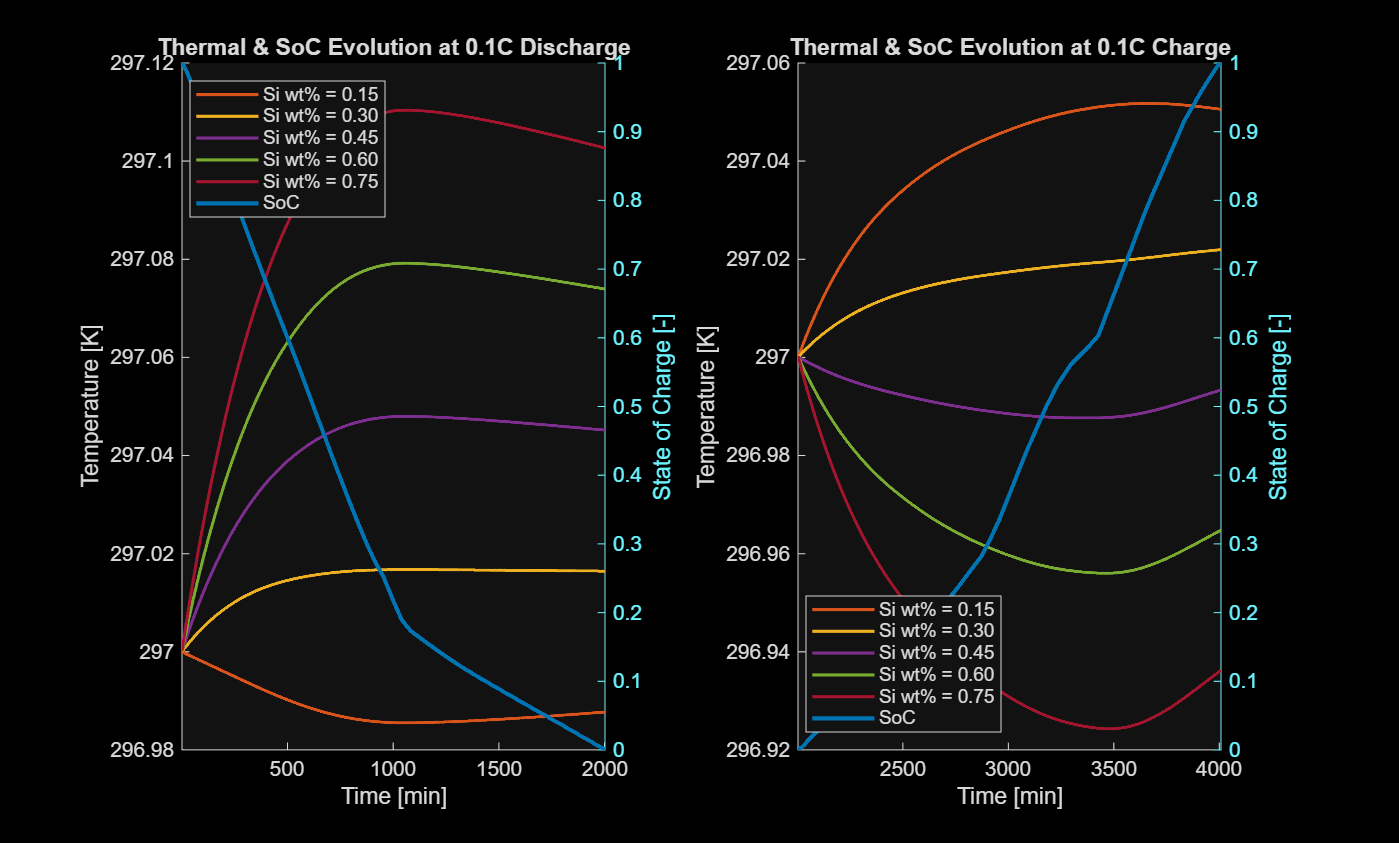
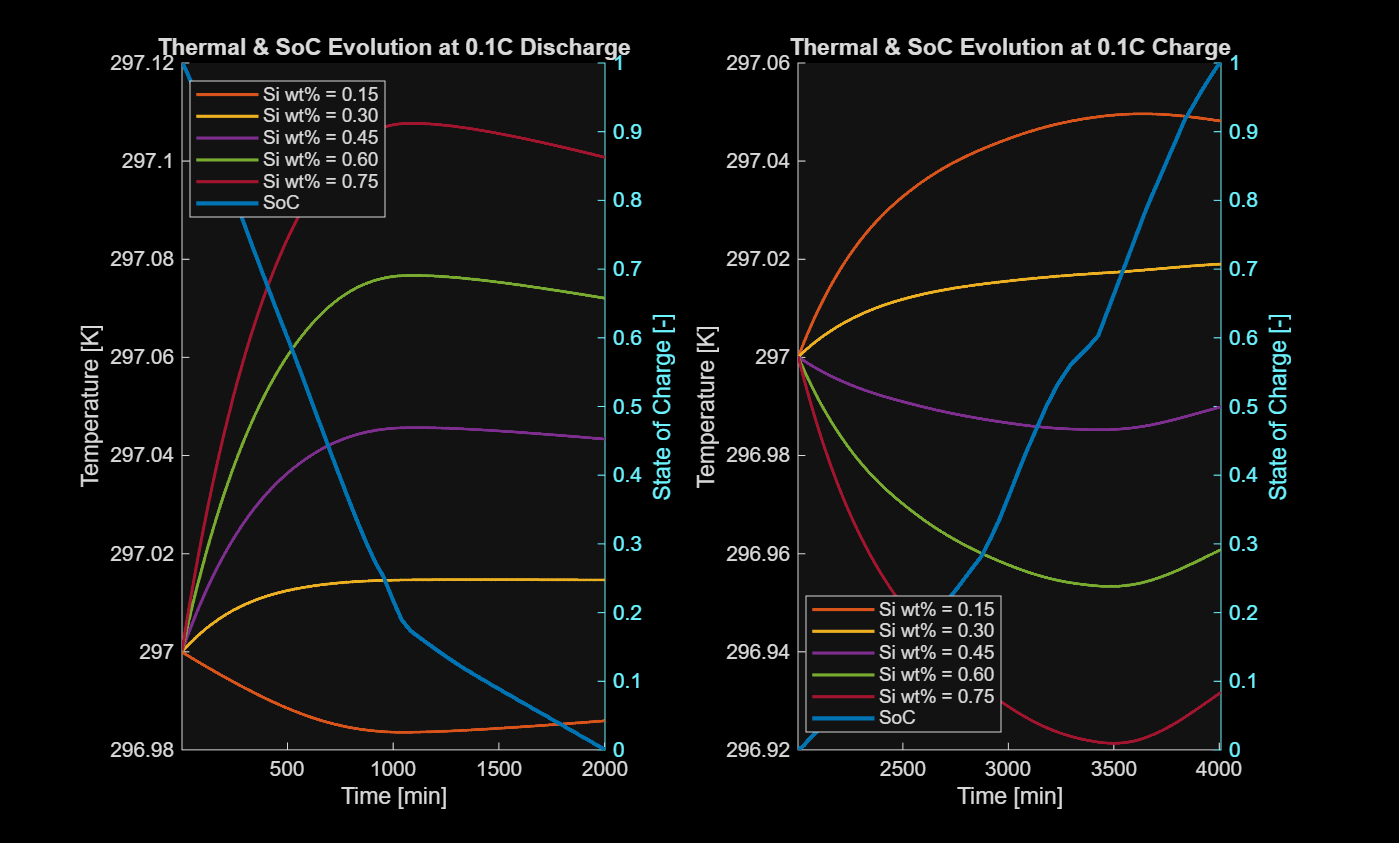
Options changed and completed

diff --git a/MATLAB Files/Main Project/options_ECM_VolThev.m b/MATLAB Files/Main Project/options_ECM_VolThev.m
@@ -1,3 +1,10 @@
+%##########################################################################
+% options_ECM_VolThev:
+%   Author: Joshua Eastgaard
+%   Purpose: Store all the required constants and data structures for the
+%            running models. One location to change any required values.
+%   Params: (none)
+%%
 function [options] = options_ECM_VolThev
 
 %% Simulation options
@@ -28,16 +35,17 @@ options.ECM.R2 = 8e-3; % Base resistance for second RC element
 options.ECM.C1 = 350; % Base capacitance for first RC element
 options.ECM.C2 = 1000; % Base capacitance for second RC element
 
-options.ECM.kR0 = 0.7; % Sensitivity of R0 to Si strain.
-options.ECM.kR1 = 0.5; % Sensitivity of R1 to Si strain.
-options.ECM.kR2 = 0.3; % Sensitivity of R2 to Si strain.
+options.ECM.kR0 = 0.9; % Sensitivity of R0 to Si strain.
+options.ECM.kR1 = 0.8; % Sensitivity of R1 to Si strain.
+options.ECM.kR2 = 0.5; % Sensitivity of R2 to Si strain.
 options.ECM.kC1 = 0.4; % Sensitivity of C1 to Si strain.
 options.ECM.kC2 = 0.2; % Sensitivity of C2 to Si strain.
 
 % Anode Values
 options.anode.Qa = 5; % Ah Nominal Q
 options.anode.na = 1.0; % Dimensionless Coulumb efficiency
-options.anode.hA = 0.3; % Heat transfer Coefficient * Surface Area (smaller hA = cell retains heat)
+options.anode.hA = 0.3; % Heat transfer Coefficient * 
+                        % Surface Area (smaller hA = cell retains heat)
 options.anode.m = 0.3;  % cell mass [kg]
 
 %% Material Properties for Electrode Design Analysis
@@ -56,13 +64,13 @@ options.materials.dUdT_Si = 3.2e-4;  % Si is positive, not cool
 options.materials.dUdT_Gr = -1.4e-4; % Negative for Gr (cool right?)
 
 % Expansion Factors [vol-%]
-options.materials.e_Si = 280;        % Silicon expansion based on literature
-options.materials.e_G = 10;          % Graphite expansion based on literature
-options.materials.e_IM = 0;          % Inactive materials expansion
-options.materials.alpha_L = 3e-6;    % Linear thermal expansion coef. [1/K]
+options.materials.e_Si = 280;      % Silicon expansion based on literature
+options.materials.e_G = 10;        % Graphite expansion based on literature
+options.materials.e_IM = 0;        % Inactive materials expansion
+options.materials.alpha_L = 3e-6;  % Linear thermal expansion coef. [1/K]
 
 % Weight Fractions [wt-%]
-options.materials.w_IM = 0.05;          % Inactive materials weight fraction
+options.materials.w_IM = 0.05;     % Inactive materials weight fraction
 
 % Particle sizes [m]
 options.particles.r_Si = 100e-9;      % Silicon particle radius (100 nm)
@@ -72,21 +80,21 @@ options.particles.r_G = 10e-6;        % Graphite particle radius (10 m)
 options.electrode.epsilon = 0.35;     % Porosity
 
 % Kinetic parameters
-options.kinetics.i0_Si = 0.5;         % Silicon exchange current density [A/m�]
-options.kinetics.i0_G = 35;           % Graphite exchange current density [A/m�]
-options.kinetics.alpha = 0.5;         % Charge transfer coefficient
+options.kinetics.i0_Si = 0.5;   % Silicon exchange current density [A/m�]
+options.kinetics.i0_G = 35;     % Graphite exchange current density [A/m�]
+options.kinetics.alpha = 0.5;   % Charge transfer coefficient
 
 % Physical constants
 options.constants.F = 96485;          % Faraday constant [C/mol]
 options.constants.R_gas = 8.314;      % Gas constant [J/(mol�K)]
 
-% Initial / Enviroment Values ###########################################################
+% Initial / Enviroment Values #############################################
 options.ini.T=297; % [�K]
 options.ini.SoC=0.95;% [-] 0-1
 options.env.T_amb = 297; % Ambient Temperature
 
 % Bools ###################################################################
-options.bool.ini=1; %Do not change this value: 1 means that the set inital values will be used running the battery model the first time
+options.bool.ini=1; %Do not change this value
 options.bool.Aging=0;
 options.bool.Thermal=0;
 options.bool.cruise=0;
@@ -121,39 +129,12 @@ options.mech.nu = 0.3;            % Poisson's ratio
 
 % Particle properties for micro-scale stress
 options.mech.D_s = 1e-16;         % Si Diffusion coefficient [m^2/s]
-options.mech.R_p = options.particles.r_Si; % Use radius from options.particles
+options.mech.R_p = options.particles.r_Si; % Use defined radius
 options.mech.Omega = 1.2e-5;      % Si Partial molar volume [m^3/mol]
-
-options.mech.BoundaryCondition = 'fixed'; % 'fixed' (for stack stress) or 'free
-
-%Solid Diffusion ##########################################################
-options.seg_particle=15; %Particle discretization (number of shells)
-% For more information on the number of shells, look at lecture notes.
-%In case of EIS Data:
-% These are just lists of string values so that we can reference the values
-% later.
-options.Names_ECM={'tau_1';'R_1';'tau_2';'R_2';'tau_3';'R_3';'tau_4';'R_4';'tau_5';'R_5' ...
-    ;'tau_6';'R_6';'tau_7';'R_7';'tau_8';'R_8';'tau_9';'R_9' ...
-    };
-options.Names_ECM_U={'U_1';'U_2';'U_3';'U_4';'U_5';'U_6';'U_7';'U_8';'U_9'};
-options.Names_Elements={'Zarc1';'Zarc2';'WarBurg'};
-
-%Thermal Model ############################################################
-options.Thermal.coolingPower=0; %[W]
+% 'fixed' (for stack stress) or 'free
+options.mech.BoundaryCondition = 'fixed'; 
 
 %Time Step ################################################################
 options.delta_t=1e-0; %[s]
-
-% Do not change this part #################################################
-%TransferData #############################################################
-% This cannot be changed as it is connected to the provided data stucture.
-options.Transfer.Cell={'I';'U';'T';'SoC';'OCV';'Entropy';'P_control';'P';'h'};
-options.Transfer.ECM={'Usc';'R';'R_RC1';'tau_RC1';'R_RC2';'tau_RC2';'R_RC3';'tau_RC3';'U_RC1';'U_RC2';'U_RC3'};
-options.Transfer.Particle={'c_Li_Anode';'c_Li_Cathode'};
-
-% options.Save.Cell={'I';'U';'T';'SoC';'OCV';'Entropy';'P_control';'P'};
-% options.Save.ECM={'Usc';'R';'R_RC1';'tau_RC1';'R_RC2';'tau_RC2';'R_RC3';'tau_RC3';'U_RC1';'U_RC2';'U_RC3'};
-% options.Save.Particle={'c_Li_Anode';'c_Li_Cathode'};
-
 end
 

diff --git a/MATLAB Files/Main Project/ECM_Parameter_ECM_VolThev.m b/MATLAB Files/Main Project/ECM_Parameter_ECM_VolThev.m
@@ -14,7 +14,8 @@
 %       - cRate: Numerical value that sets the paramaterized C-Rate.
 %%
 
-function [param] = ECM_Parameter_ECM_VolThev(data_save, options, wtSi, cRate)
+function [param] = ECM_Parameter_ECM_VolThev(...
+    data_save, options, wtSi, cRate)
 
 % Retrieve given data in param
 load('Potential_Gr_Si_NMC.mat')
